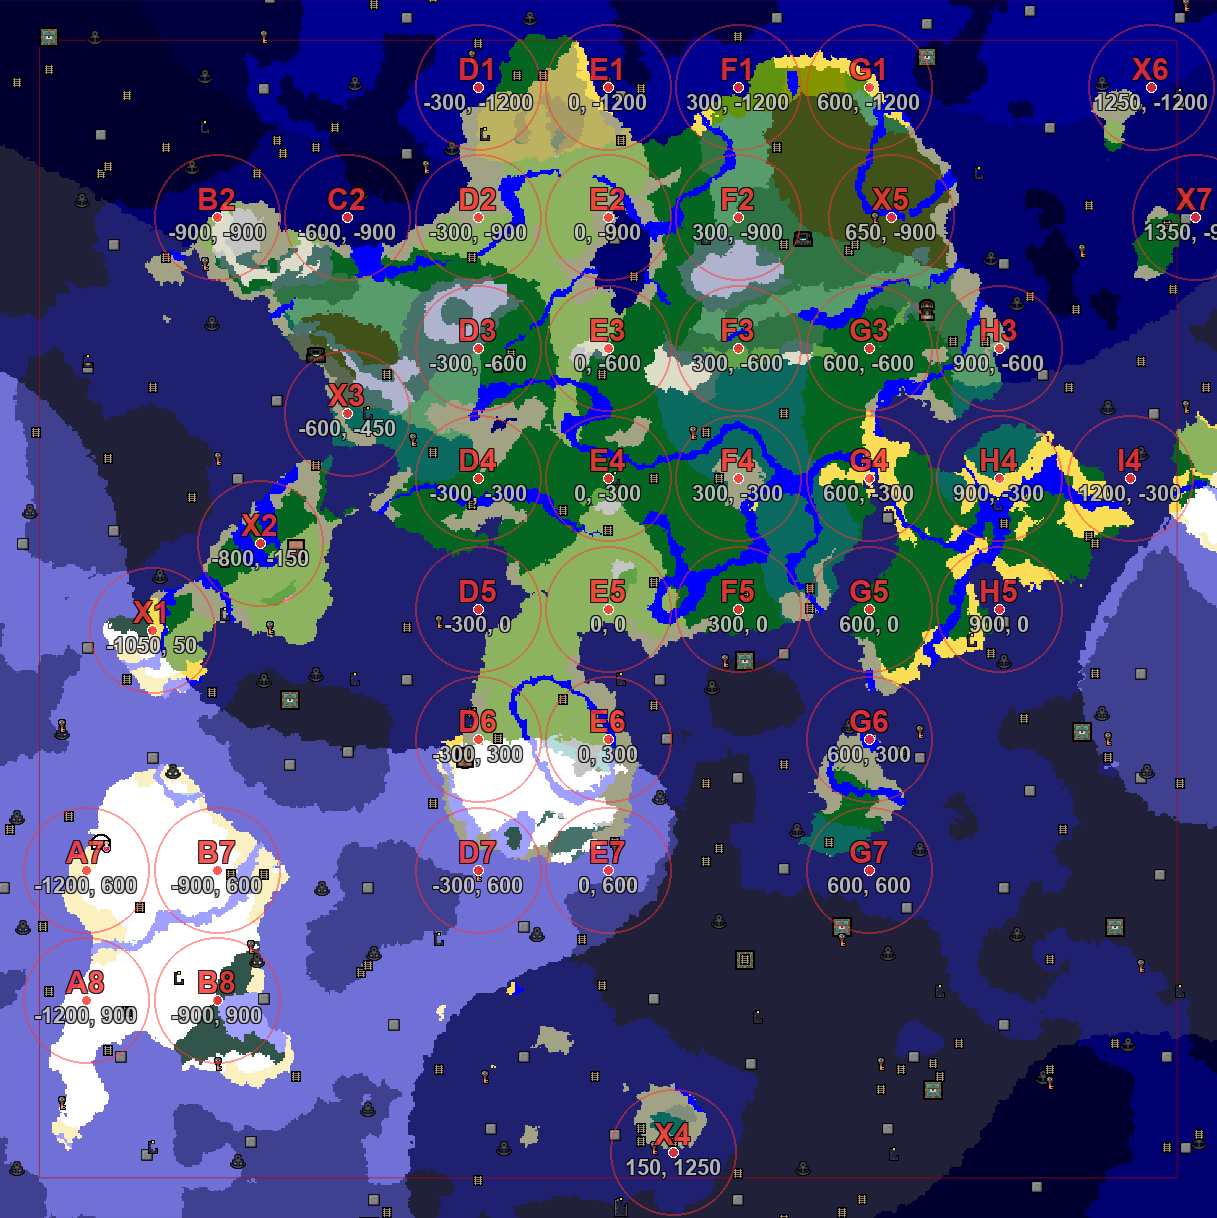
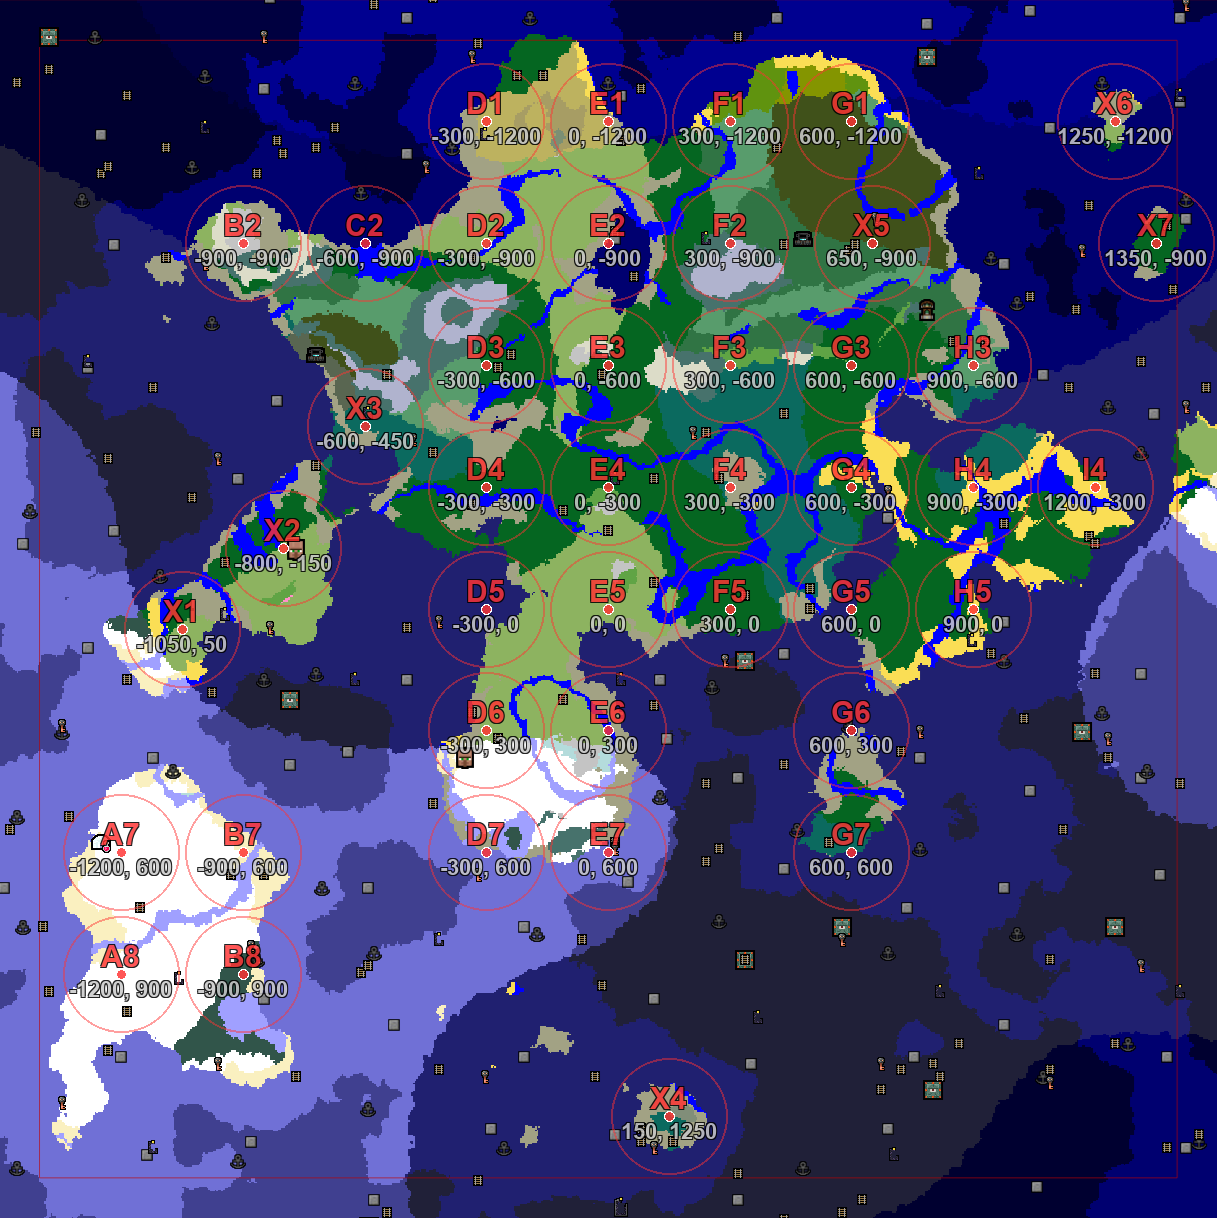
EVENT2 POST STUFF

diff --git a/main.py b/main.py
@@ -515,8 +515,8 @@ def main():
         description="Overlay spawn grid / resolve team war spawns on a Minecraft map image."
     )
     parser.add_argument("--prefix", default="EVENT2/EVENT2",
-                        help="File prefix for all event files, e.g. 'EVENT2' → EVENT2_map.png, EVENT2_teams.txt, …")
-    parser.add_argument("--size", default=2800, type=int, help="Map size in blocks (side length)")
+                        help="File prefix for all event files, e.g. 'c' → EVENT2.png, EVENT2_teams.txt, …")
+    parser.add_argument("--size", default=3000, type=int, help="Map size in blocks (side length)")
     parser.add_argument("--spacing", default=300, type=int, help="Distance D between spawn points in blocks")
     parser.add_argument("--border", default=100, type=int, help="Min distance from border in blocks (default: 100)")
     parser.add_argument("--dot-size", default=None, type=int, help="Dot radius in pixels (default: auto)")
